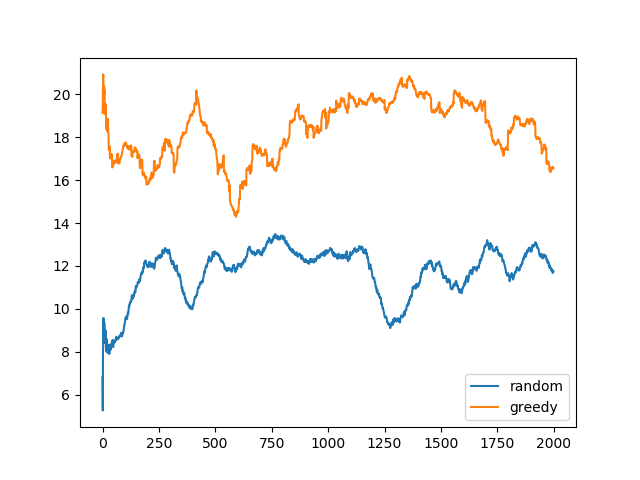
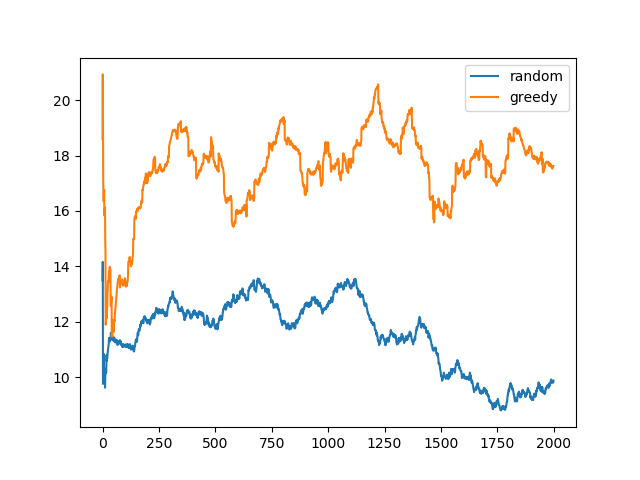
...

diff --git a/VEC1.py b/VEC1.py
@@ -1,188 +1,33 @@
-import copy
 import random
-from collections import namedtuple
 import gym
-from gym import wrappers
 import numpy as np
-import matplotlib as mpl
 from gym import spaces
 from gym.utils import seeding
-from matplotlib import pyplot
-from random import randint
-from scipy.optimize import fsolve
+import matplotlib.pyplot as plt
+from environments.VEC_Environment import VEC_Environment
 
-class VEC_Environment(gym.Env):
-    environment_name = "Vehicular Edge Computing"
-
-    def __init__(self, num_vehicles=80, task_num=50):
-        self.num_vehicles = num_vehicles
-        self.task_num_per_episode = task_num
-        self.vehicle_count = 0
-        self.maxR = 500 #m, max relative distance between request vehicle and other vehicles
-        self.maxV = 30 #km/h, max relative velocity between requst vehicle and other vehicles
-        self.max_v = 80 # maximum vehicles in the communication range of request vehicle
-        self.max_local_task = 1
-        self.bandwidth = 6 # MHz
-        self.snr_ref = 1 # reference SNR, which is used to compute rate by B*log2(1+snr_ref*d^-a) 
-        self.snr_alpha = 2
-        self.vehicle_F = range(5,16)  #GHz
-        self.max_datasize = 0.2 #MBytes
-        self.max_compsize = 1 #GHz
-        self.max_tau = 2 # s
-        self.price = 0.1
-        self.max_price = np.log(1+self.max_tau)/20
-        self.price_level = 100
-
-        self.action_space = spaces.Discrete(self.num_vehicles*self.price_level)
-        self.observation_space = spaces.Dict({
-            "snr":spaces.Box(0,self.snr_ref,shape=(self.max_v,),dtype='float32'),
-            "time_remain":spaces.Box(0,100,shape=(self.max_v,),dtype='float32'),
-            "freq_remain":spaces.Box(0,6,shape=(self.max_v,),dtype='float32'),
-            "task":spaces.Box(0,max(self.max_datasize,self.max_compsize,self.max_tau),shape=(3,),dtype='float32')})
-        self.seed()
-        self.reward_threshold = 0.0
-        self.trials = 50
-        self.max_episode_steps = 100
-        self._max_episode_steps = 100
-        self.id = "VEC"
-        
-        self.vehicles = [] #vehicles in the range
-        self.tasks = [] #tasks for offloading
-        self.init_vehicles()
-        # self.generate_offload_tasks()
-        # self.generate_local_tasks()
-
-    def seed(self, seed=None):
-        self.np_random, seed = seeding.np_random(seed)
-        return [seed]
-
-    def reset(self):
-        """Resets the environment and returns the start state"""
-        # for _ in range(random.randint(1,10)):
-        #     self.add_vehicle()
-        self.move_vehicles()
-        self.generate_local_tasks()
-        self.generate_offload_tasks()
-        self.step_count = 0
-        self.next_state = None
-        self.reward = None
-        self.done = False
-        for v in self.vehicles:
-            v["freq"] = v["freq_init"]
-            v["freq_remain"] = max(0, v["freq_init"] - sum([i[1]/i[2] for i in v["tasks"]]))
-        task = self.tasks[0]
-        self.s = {
-            "snr":np.array([min(self.snr_ref*(abs(v["position"])/200)**-2, 1) for v in self.vehicles]),
-            "time_remain":np.array([min(-v["position"]/v["velocity"]+500/abs(v["velocity"]), 100) for v in self.vehicles]),
-            "freq_remain":np.array([v["freq_remain"] for v in self.vehicles]),
-            "task":np.array(task)}
-        return spaces.flatten(self.observation_space, self.s)
-
-    def step(self, action):
-        self.step_count += 1
-        self.reward = self.compute_reward(action)
-        self.s["freq_remain"][action//self.price_level] = self.vehicles[action//self.price_level]["freq_remain"]
-        if self.step_count >= self.task_num_per_episode: 
-            self.done = True
-        else: 
-            self.done = False
-            task = self.tasks[self.step_count]
-            self.s["task"] = np.array(task)
-        return spaces.flatten(self.observation_space, self.s), self.reward, self.done, {}
-
-    def compute_reward(self, action):
-        """Computes the reward we would have got with this achieved goal and desired goal. Must be of this exact
-        interface to fit with the open AI gym specifications"""
-        task = self.s["task"]
-        v_id = action//self.price_level
-        cost = (action%self.price_level)/self.price_level*self.max_price + self.price*task[1]
-        reward = -np.log(1+self.max_tau)
-        v = self.vehicles[v_id]
-        if v["freq_remain"]==0:
-            return reward
-        alpha_max = v["freq_remain"]/v["freq"]
-        u_max = sum([np.log(1+alpha_max*i[2]) for i in v["tasks"]])
-        alpha = fsolve(lambda a:sum([np.log(1+a*i[2]) for i in v["tasks"]])-u_max+ cost -self.price*task[1], 0.001)[0]
-        alpha = min(max(0,alpha), alpha_max)
-        freq_alloc = v["freq"]-(v["freq"]-v["freq_remain"])/(1-alpha)
-        if freq_alloc <= 0:
-            return reward
-        snr = self.s["snr"][v_id]
-        t_total = task[0]/(self.bandwidth*np.log2(1+snr)) + task[1]/freq_alloc
-        if t_total <= min(task[2],self.s["time_remain"][v_id]):
-            reward = np.log(1+task[2]-t_total) - cost
-            v["freq"] -= freq_alloc
-            v["freq_remain"] = max(0, v["freq"] - sum([i[1]/i[2] for i in v["tasks"]]))
-            # if reward <= 0:
-            #     print("t_total=",t_total,"reward=",reward)
-        return reward
-
-    def init_vehicles(self):
-        for _ in range(self.num_vehicles):
-            self.vehicle_count += 1
-            v_f = random.choice(self.vehicle_F)
-            v_p = random.uniform(-self.maxR,self.maxR)
-            v_v = random.uniform(-self.maxV,self.maxV)
-            v_v = v_v if v_v!=0 else random.choice([-0.1, 0.1])
-            self.vehicles.append({"id":self.vehicle_count, "position":v_p, "velocity":v_v, "freq_init":v_f, "freq":v_f, "freq_remain":0, "tasks":[]})
-
-    def add_vehicle(self):
-        if len(self.vehicles) <= self.max_v:
-            self.vehicle_count += 1
-            v_f = np.random.choice(self.vehicle_F)
-            v_v = random.uniform(-self.maxV,self.maxV)
-            v_v = v_v if v_v!=0 else random.choice([-0.1, 0.1])
-            v_p = -self.maxR if v_v>0 else self.maxR
-            self.vehicles.append({"id":self.vehicle_count, "position":v_p, "velocity":v_v, "freq_init":v_f, "freq":v_f, "freq_remain":0, "tasks":[]})
-
-    def move_vehicles(self):
-        for i in range(len(self.vehicles)-1,-1,-1):
-            self.vehicles[i]["position"] += self.vehicles[i]["velocity"]*self.max_tau
-            if abs(self.vehicles[i]["position"]) >= self.maxR:
-                self.vehicles.pop(i)
-                self.add_vehicle()
-
-    def generate_local_tasks(self):
-        for v in self.vehicles:
-            v["tasks"] = []
-            for _ in range(random.randint(1,self.max_local_task)):
-                data_size = random.uniform(self.max_datasize/5,self.max_datasize)
-                compute_size = random.uniform(self.max_compsize/5,self.max_compsize)
-                max_t = random.uniform(self.max_tau/5, self.max_tau)
-                v["tasks"].append([data_size, compute_size, max_t])
-    
-    def generate_offload_tasks(self):
-        self.tasks = []
-        for _ in range(self.task_num_per_episode):
-            data_size = random.uniform(self.max_datasize/5,self.max_datasize)
-            compute_size = random.uniform(self.max_compsize/5,self.max_compsize)
-            max_t = random.uniform(self.max_tau/5, self.max_tau)
-            self.tasks.append([data_size, compute_size, max_t])
-
-    def produce_action(self, action_type):
-        if action_type=="random":
-            return self.action_space.sample()//100*100 + 50
-        elif action_type=="greedy":
-            return np.argmax(self.s["freq_remain"])*100 + 50
 
 num_vehicles = 20
 task_num = 50
 num_episode = 2000
 trials = 100
 action_type = ["random","greedy"]
-results = [[],[]]
-rollings = [[],[]]
-for i in range(2):
-    env = VEC_Environment(num_vehicles=num_vehicles, task_num=task_num)
-    for _ in range(num_episode):
-        env.reset()
-        reward = 0
-        for _ in range(task_num):
-            _,r,_,_=env.step(env.produce_action(action_type[i]))
-            reward+=r
-        results[i].append(reward)
-        rollings[i].append(np.mean(results[i][-trials:]))
-pyplot.plot(rollings[0],label="random")
-pyplot.plot(rollings[1],label="greedy")
-pyplot.legend()
-pyplot.savefig("results/data_and_graphs/VEC_greedy.png")
+
+for i in action_type:
+    plt.figure()
+    plt.title("VEC_{}".format(i))
+    for price_level in range(1,100,10):
+        results = []
+        rollings = []
+        env = VEC_Environment(num_vehicles=num_vehicles, task_num=task_num)
+        for _ in range(num_episode):
+            env.reset()
+            reward = 0
+            for _ in range(task_num):
+                _,r,_,_=env.step(env.produce_action(i),price_level)
+                reward+=r
+            results.append(reward)
+            rollings.append(np.mean(results[-trials:]))
+        plt.plot(rollings,label=str(price_level))
+    plt.legend()
+    plt.savefig("results/data_and_graphs/VEC_{}.png".format(i))

diff --git a/environments/VEC_Environment.py b/environments/VEC_Environment.py
@@ -79,10 +79,10 @@ class VEC_Environment(gym.Env):
             "task":np.array(task)}
         return spaces.flatten(self.observation_space, self.s)
 
-    def step(self, action):
+    def step(self, action, price_level=50):
         self.step_count += 1
         # print("action=",action)
-        self.reward = self.compute_reward(action)
+        self.reward = self.compute_reward(action, price_level)
         self.s["freq_remain"][action//self.price_level] = self.vehicles[action//self.price_level]["freq_remain"]
         if self.step_count >= self.task_num_per_episode: 
             self.done = True
@@ -92,14 +92,14 @@ class VEC_Environment(gym.Env):
             self.s["task"] = np.array(task)
         return spaces.flatten(self.observation_space, self.s), self.reward, self.done, {}
 
-    def compute_reward(self, action):
+    def compute_reward(self, action, price_level):
         """Computes the reward we would have got with this achieved goal and desired goal. Must be of this exact
         interface to fit with the open AI gym specifications"""
         task = self.s["task"]
         # v_id = action//self.price_level
         # cost = (action%self.price_level)/self.price_level*self.max_price + self.price*task[1]
         v_id = action
-        cost = 0.5*self.max_price + self.price*task[1]
+        cost = price_level/100*self.max_price + self.price*task[1]
         reward = -np.log(1+self.max_tau)
         v = self.vehicles[v_id]
         if v["freq_remain"]==0:
@@ -165,7 +165,7 @@ class VEC_Environment(gym.Env):
 
     def produce_action(self, action_type):
         if action_type=="random":
-            return self.action_space.sample()//100*100 + 50
+            return self.action_space.sample()
         elif action_type=="greedy":
-            return np.argmax(self.s["freq_remain"])*100 + 50
+            return np.argmax(self.s["freq_remain"])
         

diff --git a/VEC.py b/VEC.py
@@ -60,7 +60,7 @@ config.hyperparameters = {
         },
 
         "Critic": {
-            "learning_rate": 0.0001,
+            "learning_rate": 0.00001,
             "linear_hidden_units": [200, 50],
             "final_layer_activation": None,
             "batch_norm": False,
@@ -69,7 +69,7 @@ config.hyperparameters = {
             "gradient_clipping_norm": 5
         },
 
-        "min_steps_before_learning": 500,
+        "min_steps_before_learning": 100,
         "batch_size": 256,
         "discount_rate": 0.99,
         "mu": 0.0, #for O-H noise
